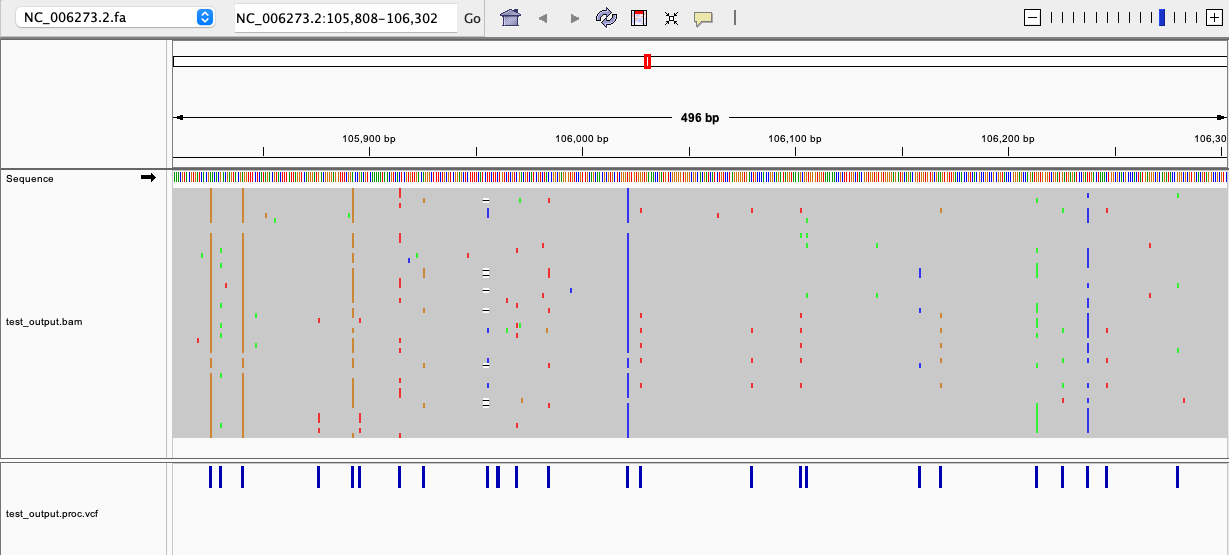
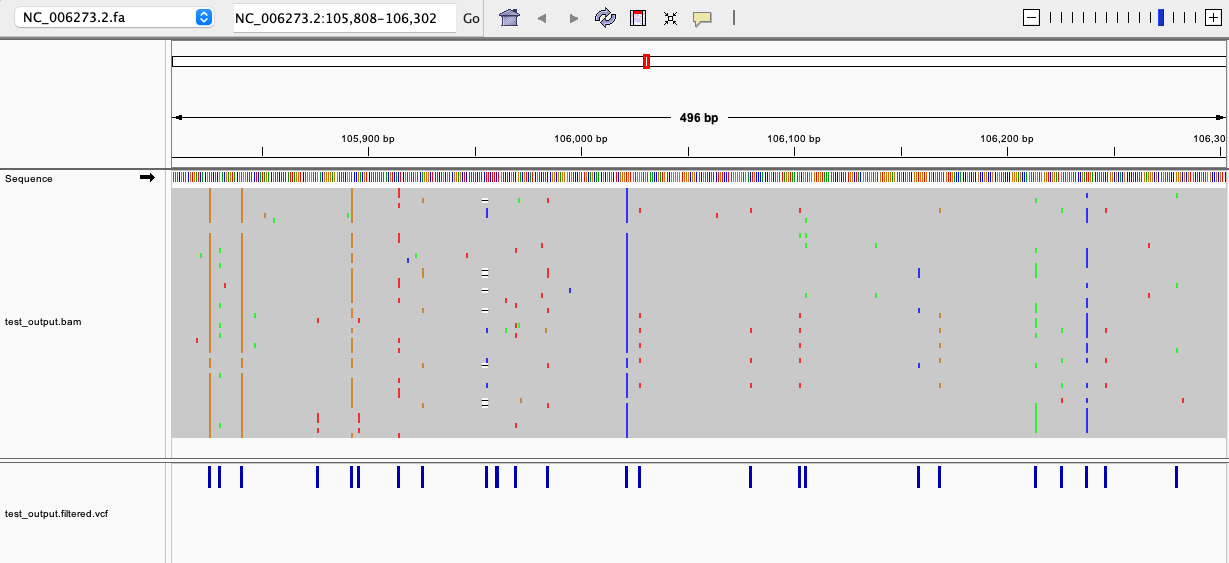
changed output vcf from proc.vcf to filtered.vcf

diff --git a/src/microorganism_snps/main.py b/src/microorganism_snps/main.py
@@ -32,17 +32,17 @@ def main(args):
     logger.info("Basic settings.")
     logger.info(basic_param)
 
-    # Check if refGenome is provided
-    if basic_param.refGenome is None:
-        logger.error("Reference genome is not provided. Please use the --refGenome argument.")
-        return
-
     # Step 1: Index reference genome
     logger.info("Index reference genome.")
     os.chdir(basic_param.wkdir)
     seq_dict = filter_fasta(basic_param.inputFasta, basic_param.minFragSize)
     
-    # Check if the reference genome exists in seq_dict
+    ## Check if refGenome is provided
+    if basic_param.refGenome is None:
+        logger.error("Reference genome is not provided. Please use the --refGenome argument.")
+        return
+    
+    ## Check if the reference genome exists in seq_dict
     if basic_param.refGenome not in seq_dict:
         logger.error(f"Reference genome {basic_param.refGenome} not found in the input sequences.")
         return
@@ -54,11 +54,11 @@ def main(args):
     logger.info("Filter and split FASTA sequences.")
     split_fasta(seq_dict, basic_param.segmentSize, basic_param.inputFasta_update)
 
-    # Step 3: Alignment
+    # Step 3: Perform lignment
     logger.info("Perform alignment.")
     alignment(f"{basic_param.refGenome}.fa", basic_param.inputFasta_update, basic_param.outputBase)
 
-    # Step 4: VCF calling and modification
+    # Step 4: VCF calling and processing
     logger.info("Call variants and modify VCF.")
     vcf_call(f"{basic_param.refGenome}.fa", basic_param.outputBase, basic_param.minDepth)
     vcf_mod(basic_param.outputBase, basic_param.minFreq)

diff --git a/src/microorganism_snps/cli.py b/src/microorganism_snps/cli.py
@@ -1,14 +1,14 @@
 import argparse
 import sys
-from .microorganism_snps import main as run_analysis
+from .main import main as run_analysis
 
 def parse_arguments():
     parser = argparse.ArgumentParser(description="Microorganism SNPs analysis")
-    parser.add_argument("--inputFasta", help="input fasta sequence for various strains sequences (default=/dev/null).", default="/dev/null")
+    parser.add_argument("--inputFasta", help="input fasta sequence for various strains sequences (default =/dev/null).", default="/dev/null")
     parser.add_argument("--refGenome", help="reference fasta sequence ID.", default=None)
-    parser.add_argument("--wkdir", help="working directory", default="./")
-    parser.add_argument("--outputbase", help="output name base.", default="output")
-    parser.add_argument("--date", help="date, MUST in the format of '20241008'", default="20241008")
+    parser.add_argument("--wkdir", help="working directory, default = ./", default="./")
+    parser.add_argument("--outputbase", help="output name base, default=output.", default="output")
+    parser.add_argument("--date", help="date, MUST in the format of '20241008'", default=None)
     parser.add_argument("--minFragSize", help="[optional] minimum fasta sequence size (default = 50)", type=int, default=50)
     parser.add_argument("--minDepth", help="[optional] minimum depth required for variants searching (default = 10)", type=int, default=10)
     parser.add_argument("--minFreq", help="[optional] min alternative allele frequency (default = 0.05, range from 0 to 1)", type=float, default=0.05)

diff --git a/src/microorganism_snps/snp_analysis.py b/src/microorganism_snps/snp_analysis.py
@@ -89,7 +89,7 @@ def vcf_mod(output_base, min_freq):
         return [x for x in string.split(";") if "QS=" in x][0].replace("QS=", "").split(",")
 
     with open(f"{output_base}.raw.vcf") as fh_raw, \
-         open(f"{output_base}.proc.vcf", "w") as fh_proc, \
+         open(f"{output_base}.filtered.vcf", "w") as fh_proc, \
          open(f"{output_base}.selVariants.tab", "w") as fh_final:
         
         counter = 1

diff --git a/README.md b/README.md
@@ -1,12 +1,29 @@
 # Microorganism SNPs
 
-Microorganism SNPs is a Python package for generating Single Nucleotide Polymorphisms (SNPs) in microorganism genomes. It provides tools for VCF calling and modification, specifically tailored for microorganism genomic data.
+Microorganism SNPs is a Python package for generating Single Nucleotide Polymorphisms (SNPs) in microorganism genomes, including bacteria, DNA viruses and RNA viruses. It provides tools for VCF calling and modification, specifically tailored for microorganism genomic data.
 
-## Features
 
-- VCF calling using bcftools mpileup
-- Custom VCF modification and filtering
-- Support for handling microorganism genomic data
+## Basic Workflow
+
+1. Data Input:
+	- The process begins with a single FASTA file containing genomic sequences from multiple strains of a microorganism.
+
+2. Reference Genome Selection and Sequence Preparation:
+	- One strain is designated as the reference genome.
+	- The genomic sequences of all strains are segmented into smaller fragments.
+
+3. Alignment:
+	- The fragmented sequences are aligned to the chosen reference genome.
+
+4. Variant Calling:
+	- Based on the alignment results, genetic variations (such as SNPs, insertions, and deletions) are identified and cataloged.
+	- VCF calling using bcftools mpileup
+	- Custom VCF modification and filtering
+
+5. Data output:
+	- bam
+	- raw vcf file
+	- filtered vcf file
 
 ## Installation
 
@@ -17,23 +34,18 @@ Microorganism SNPs is a Python package for generating Single Nucleotide Polymorp
 ### Steps
 
 1. Clone the repository:
-
    ```
    git clone https://github.com/yourusername/microorganism_snps.git
    cd microorganism_snps
    ```
 
 2. Create and activate the conda environment:
-
-
    ```
    conda env create -f environment.yml
    conda activate microorganism_snps
    ```
 
 3. Install the package:
-
-
    ```
    pip install -e .
    ```
@@ -43,42 +55,36 @@ Microorganism SNPs is a Python package for generating Single Nucleotide Polymorp
 Here's a basic example of how to use the microorganism_snps package:
 
 ```
-usage: microorganism_snps.py [-h] [--inputFasta INPUTFASTA]
-                             [--refGenome REFGENOME] [--wkdir WKDIR]
-                             [--outputbase OUTPUTBASE] [--date DATE]
-                             [--minFragSize MINFRAGSIZE] [--minDepth MINDEPTH]
-                             [--minFreq MINFREQ] [--segmentSize SEGMENTSIZE]
+usage: microorganism_snps [-h] [--inputFasta INPUTFASTA] [--refGenome REFGENOME] [--wkdir WKDIR] [--outputbase OUTPUTBASE]
+                          [--date DATE] [--minFragSize MINFRAGSIZE] [--minDepth MINDEPTH] [--minFreq MINFREQ]
+                          [--segmentSize SEGMENTSIZE]
 
 Microorganism SNPs analysis
 
 optional arguments:
   -h, --help            show this help message and exit
   --inputFasta INPUTFASTA
-                        input fasta sequence for various strains sequences
-                        (default=/dev/null).
+                        input fasta sequence for various strains sequences (default =/dev/null).
   --refGenome REFGENOME
                         reference fasta sequence ID.
-  --wkdir WKDIR         working directory
+  --wkdir WKDIR         working directory, default = ./
   --outputbase OUTPUTBASE
-                        output name base.
+                        output name base, default=output.
   --date DATE           date, MUST in the format of '20241008'
   --minFragSize MINFRAGSIZE
                         [optional] minimum fasta sequence size (default = 50)
-  --minDepth MINDEPTH   [optional] minimum depth required for variants
-                        searching (default = 10)
-  --minFreq MINFREQ     [optional] min alternative allele frequency (default =
-                        0.05, range from 0 to 1)
+  --minDepth MINDEPTH   [optional] minimum depth required for variants searching (default = 10)
+  --minFreq MINFREQ     [optional] min alternative allele frequency (default = 0.05, range from 0 to 1)
   --segmentSize SEGMENTSIZE
-                        [optional] segment size for long sequences (default =
-                        10000)
+                        [optional] segment size for long sequences (default = 10000)
 ```
 
 
 ## Example usage
 
 ```
-python ../microorganism_snps/src/microorganism_snps/microorganism_snps.py \
-    --inputFasta ../microorganism_snps/tests/cmv_50_strains.fasta \
+microorganism_snps \
+    --inputFasta /path/to/microorganism_snps/tests/cmv_sequences.fasta \
     --refGenome NC_006273.2 \
     --outputbase test_output
 ```
